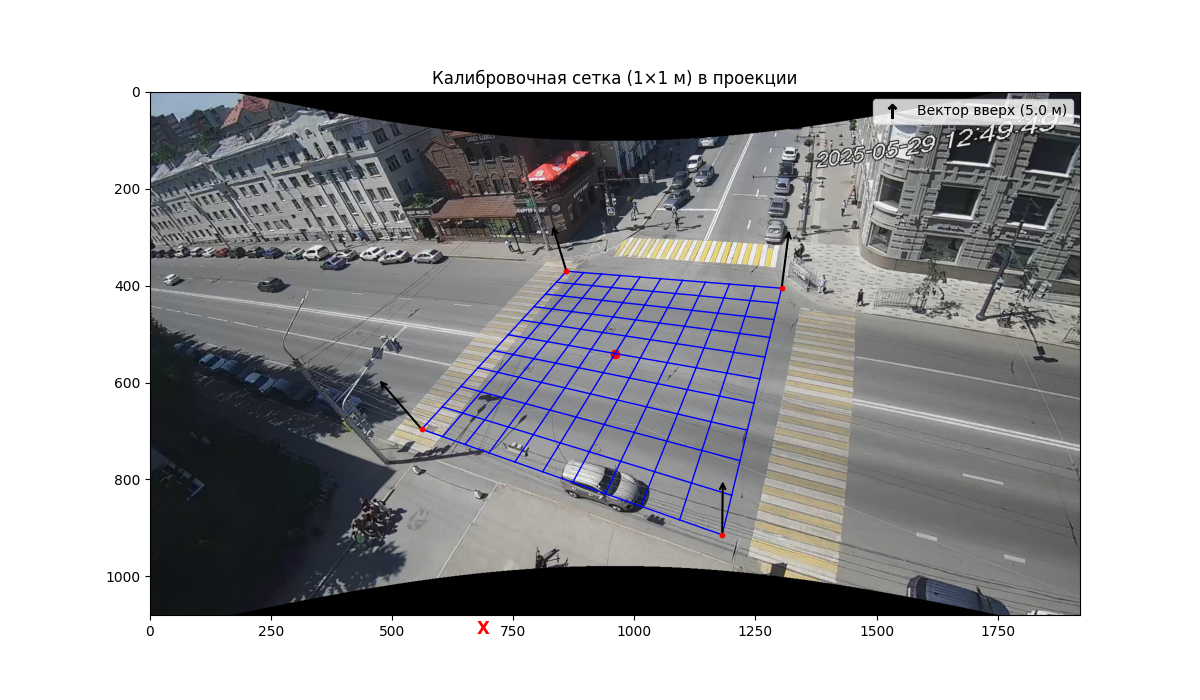
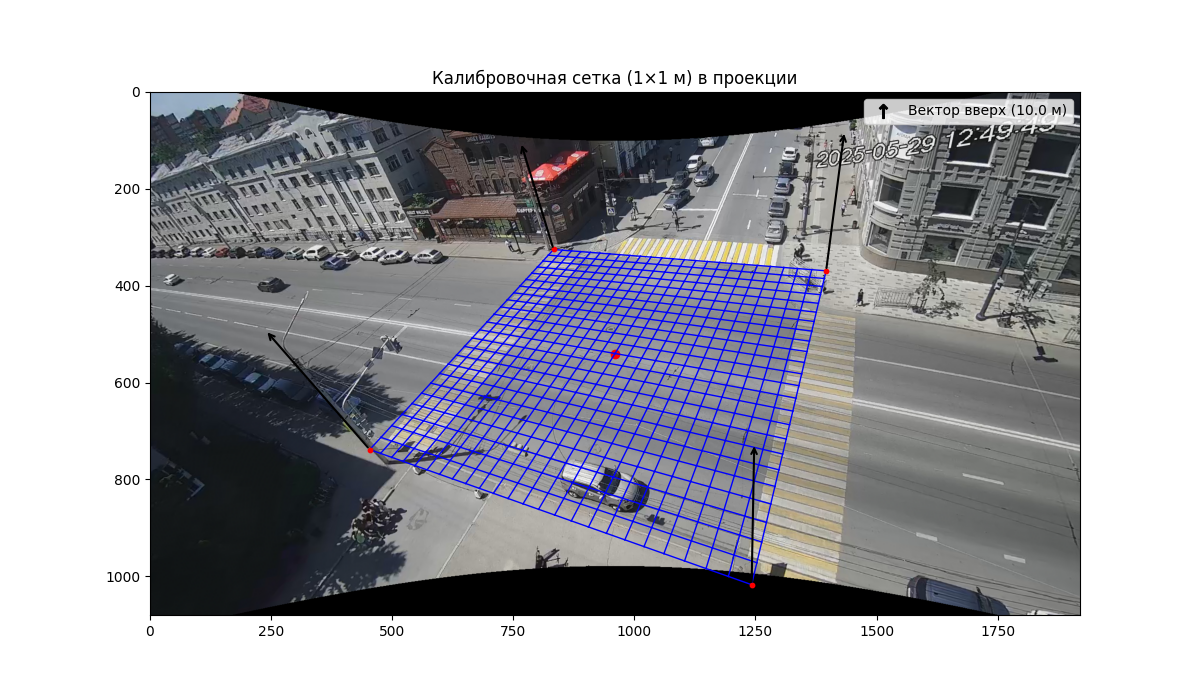
Надо найти правильные масштабы

Changed region(s): [[0.3083, 0.33, 0.7092, 0.84], [0.7092, 0.15, 0.8942, 0.18], [0.2158, 0.48, 0.2467, 0.51]]

diff --git a/example/karls_marks/example.py b/example/karls_marks/example.py
@@ -47,27 +47,40 @@ def back_refine(camera):
         "distance between line": annotation_parser.get_lines_by_class("distance between line"),
     }
     resualds_blocks_first = [
-        lambda cam, data: residual_interline_distance(cam, data, group="pedestrian crossing", expected=4),
-        lambda cam, data: residual_interline_distance(cam, data, group="pedestrian crossing 2", expected=4),
-        lambda cam, data: residual_interline_distance(cam, data, group="pedestrian crossing 3", expected=4),
-        lambda cam, data: residual_interline_distance(cam, data, group="distance between line", expected=3),
-        lambda cam, data: residual_line_length(cam, data, group="pedestrian crossing", expected=23),
+        lambda cam, data: residual_interline_distance(cam, data, group="pedestrian crossing", expected=3.8),
+        lambda cam, data: residual_interline_distance(cam, data, group="pedestrian crossing 2", expected=3.8),
+        lambda cam, data: residual_interline_distance(cam, data, group="pedestrian crossing 3", expected=3.8),
+        lambda cam, data: residual_interline_distance(cam, data, group="distance between line", expected=3.25),
+        # lambda cam, data: residual_line_length(cam, data, group="pedestrian crossing", expected=24),
+        # lambda cam, data: residual_line_length(cam, data, group="pedestrian crossing 2", expected=24),
     ]
     refiner_first = RefineOptimizer(
         camera=camera,
         residual_blocks=resualds_blocks_first,
-        mask=[0, 6],
-        bounds=([700, 2000], [5, 30]),
+        mask=[6],
+        bounds=[(5, 30)],
         debug_save_path='data/',
         method="minimize",
     )
-    pipeline = CalibrationPipeline([vp_init, refiner_first])
+
+    refiner_second = RefineOptimizer(
+        camera=camera,
+        residual_blocks=resualds_blocks_first,
+        mask=[0],
+        bounds=[(900, 2000)],
+        debug_save_path='data/',
+        method="minimize",
+    )
+    pipeline = CalibrationPipeline([vp_init, refiner_first, refiner_second])
     camera = pipeline.run(camera, data)
 
     return camera
 
-# camera = back_refine() # Проверка кода
 
+# camera = back_refine(camera)
+"""
+Проблема с масштабом возможно проблема в углах. Так в целом рабочий варик.
+"""
 
 def direct_refine(camera):
     """
@@ -91,4 +104,4 @@ def direct_refine(camera):
 
     return camera
 
-camera = direct_refine(camera)
+# camera = direct_refine(camera)

diff --git a/source/calibration/refine/optimizer.py b/source/calibration/refine/optimizer.py
@@ -89,8 +89,8 @@ class RefineOptimizer(Calibration):
         if self.debug_save_path is not None:
             from source.calibration.debug import visualize_grid_debug, visualize_grid_gps_debug
             point_start = PointND(self.camera.intrinsics.get_main_point(), add_weight=True)
-            visualize_grid_debug(self.camera, point_start, save_path=self.debug_save_path + "grid.png", grid_range=10,
-                                 grid_step=2)
+            visualize_grid_debug(self.camera, point_start, save_path=self.debug_save_path + "grid.png", grid_range=12,
+                                 grid_step=1)
             # visualize_grid_gps_debug(self.camera, point_start, gps_origin=self.gps_origin)
             if self.gps_origin is not None:
                 pass

diff --git a/source/calibration/debug/debug_scene.py b/source/calibration/debug/debug_scene.py
@@ -15,7 +15,7 @@ def visualize_grid_debug(
         point_start: PointND,
         grid_range: float = 5.0,  # диапазон в метрах от центра
         grid_step: float = 1.0,  # размер клетки
-        arrow_len: float = 5.0,  # длина вектора "вверх"
+        arrow_len: float = 10.0,  # длина вектора "вверх"
         plane_z: float = 0.0,  # плоскость, на которую кладём сетку
         save_path=None
 ):
